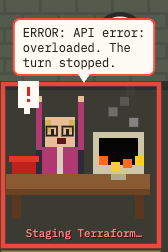
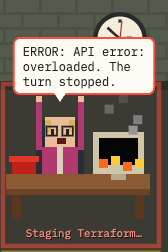
Sort the Dock by last interaction, fix sleep states, and point bubbles at heads
- Dock: the desk you prompted or jumped to last moves to the top, and
  desks glide to their new places. Other views keep the stable order.
  The keyboard walk reads the desk order from the office itself.
- Sleep: a finished session you never looked at falls asleep after
  2 hours (live sessions only). The registry status "shell" now means
  Finished, like "idle". It means the turn ended, not asleep.
- Bubbles: the tail points at the person's head and the bubble sits
  lower. Desks with a speech bubble drop the small "!" and "?" icons.
  The README images show the new bubbles.

Changed region(s): [[0.0, 0.0556, 0.9821, 1.0], [0.5952, 0.6111, 0.8631, 0.6944], [0.744, 0.4444, 0.8631, 0.5556]]

diff --git a/web/office.js b/web/office.js
@@ -161,8 +161,9 @@ function deskSlots(list, cols, w, top) {
 
 // Desk order is stable: first seen, first seated. An agent with a seat number (the demo's)
 // takes its place in seat order instead, so the demo office looks the same every time.
+// byRecent (the cmux Dock): your latest interaction sits at the top; ties keep the stable order.
 const seatOrder = [];
-function seated(list) {
+function seated(list, byRecent = false) {
   const byId = new Map(list.map((a) => [a.id, a]));
   for (const a of list) {
     if (seatOrder.includes(a.id)) continue;
@@ -170,7 +171,8 @@ function seated(list) {
     if (before < 0) seatOrder.push(a.id); else seatOrder.splice(before, 0, a.id);
   }
   for (let i = seatOrder.length - 1; i >= 0; i--) if (!byId.has(seatOrder[i])) seatOrder.splice(i, 1);
-  return seatOrder.map((id) => byId.get(id));
+  const stable = seatOrder.map((id) => byId.get(id));
+  return byRecent ? stable.sort((a, b) => (b.touchedAt ?? 0) - (a.touchedAt ?? 0)) : stable;
 }
 
 // Lays out the wall props left to right in logical pixels, for any office width.
@@ -244,7 +246,8 @@ function drawRoom(c, w, h, t, wall) {
 }
 
 // rowWidth > 0 means a one-column office: a colored divider under each desk replaces the outline.
-function drawDesk(c, s, t, rowWidth = 0) {
+// glyphs: draw the small "!" and "?" bubbles. Only the small map needs them; elsewhere the speech bubble says it.
+function drawDesk(c, s, t, rowWidth = 0, glyphs = true) {
   const { a, x, y } = s;
   const tier = a.tier;
   const pulse = 0.35 + 0.35 * Math.sin(t * 6);
@@ -292,10 +295,10 @@ function drawDesk(c, s, t, rowWidth = 0) {
     for (let i = 0; i < 4; i++) px(c, mx + 2 + i * 4, my + 10 - (Math.floor(t * 12 + i) % 3), 3, 3, i % 2 ? "#ffcc33" : "#ff6a1a");
   }
   // bubbles
-  if (a.state === "permission") bubble(c, x + 6, y - 9, "!", "#d22");
-  if (a.state === "question") bubble(c, x + 6, y - 9, "?", "#2a62d4");
-  if (a.state === "waiting") bubble(c, x + 4, y - 9, "!?", "#d22");
-  if (a.state === "error") bubble(c, x + 6, y - 9, "!", "#d22");
+  if (glyphs && a.state === "permission") bubble(c, x + 6, y - 9, "!", "#d22");
+  if (glyphs && a.state === "question") bubble(c, x + 6, y - 9, "?", "#2a62d4");
+  if (glyphs && a.state === "waiting") bubble(c, x + 4, y - 9, "!?", "#d22");
+  if (glyphs && a.state === "error") bubble(c, x + 6, y - 9, "!", "#d22");
   // asleep: an empty chair with z's drifting up from it
   if (a.state === "idle") for (let i = 0; i < 2; i++) { const p = (t * 0.5 + i * 0.5) % 1; glyph(c, "z", x + 17 + p * 6, y + 8 - p * 14, `rgba(220,220,255,${1 - p})`); }
   // helpers (subagents): one badge above the desk, a tiny figure plus a count drawn in the label pass
@@ -340,9 +343,11 @@ function speech(c, s, scale, lw, alpha = 1) {
   const lines = wrap(c, `${label ? label.toUpperCase() + ": " : ""}${a.detail}`, CELL_W * scale - 30, 4);
   const w = Math.max(...lines.map((l) => c.measureText(l).width)) + 18;
   const h = lines.length * 15 + 11;
-  const tx = (s.x + CELL_W / 2) * scale;
-  const x = tx - w / 2;
-  const y = Math.max(2, (s.y - 11) * scale - h); // keeps the top row's bubbles on the canvas
+  // The box stays centred on its desk, so it never runs into the next one. The tail points
+  // down at the person's head (drawPerson puts it at x + 20), ending just above the hair.
+  const x = (s.x + CELL_W / 2) * scale - w / 2;
+  const tx = Math.min(Math.max((s.x + 20) * scale, x + 12), x + w - 12);
+  const y = Math.max(2, (s.y - 2) * scale - 8 - h); // keeps the top row's bubbles on the canvas
   c.fillStyle = urgent ? "#fdfbf3" : "#0d1a10";
   c.strokeStyle = urgent ? "#ff4d3d" : "#7dff8a";
   c.lineWidth = 2;
@@ -392,13 +397,33 @@ function mountOffice(host, scale) {
   let lw = 0;
   let hoverId;
   let wall;
+  let targets = [];     // where each desk belongs this frame
+  let lastMs;
+  const shown = new Map(); // id -> where the desk is drawn now, gliding toward its target
+
+  // Moves each desk part of the way to its target every frame (ease-out, about a third of a
+  // second end to end). A new desk appears in place; a desk that left is forgotten.
+  function glide(list, dt) {
+    const k = 1 - Math.exp(-dt * 12);
+    const ids = new Set(list.map((s) => s.a.id));
+    for (const id of shown.keys()) if (!ids.has(id)) shown.delete(id);
+    return list.map((s) => {
+      const p = shown.get(s.a.id);
+      if (!p) { shown.set(s.a.id, { x: s.x, y: s.y }); return s; }
+      p.x += (s.x - p.x) * k;
+      p.y += (s.y - p.y) * k;
+      if (Math.abs(s.x - p.x) < 0.3 && Math.abs(s.y - p.y) < 0.3) { p.x = s.x; p.y = s.y; }
+      return { ...s, x: Math.round(p.x), y: Math.round(p.y) };
+    });
+  }
   function frame(ms) {
     if (!alive) return;
     const t = ms / 1000;
     const wpx = host.clientWidth || 600;
     lw = Math.floor(wpx / scale);
     const cols = Math.max(1, Math.floor((lw - PAD * 2) / CELL_W));
-    const list = seated(agents);
+    // The cmux Dock: inside cmux and narrow.
+    const list = seated(agents, IN_CMUX && wpx < NARROW_PX);
     const rows = Math.max(2, Math.ceil(list.length / cols));
     const top = wpx < NARROW_PX ? 8 : WALL_H;
     const lh = top + 8 + rows * CELL_H;
@@ -407,9 +432,13 @@ function mountOffice(host, scale) {
     c.imageSmoothingEnabled = false;
     wall = top === WALL_H ? wallLayout(c, lw, scale) : null;
     drawRoom(c, lw, lh, t, wall);
-    slots = deskSlots(list, cols, lw, top);
+    targets = deskSlots(list, cols, lw, top);
+    slots = glide(targets, (ms - (lastMs ?? ms)) / 1000);
+    lastMs = ms;
     const single = cols === 1;
-    slots.forEach((s) => drawDesk(c, s, t, single ? lw : 0));
+    // Desks still gliding draw last, so they slide over the desks they pass.
+    const moving = (s, i) => (s.x !== targets[i].x || s.y !== targets[i].y ? 1 : 0);
+    slots.map((s, i) => [s, moving(s, i)]).sort((p, q) => p[1] - q[1]).forEach(([s]) => drawDesk(c, s, t, single ? lw : 0, scale < 2));
     // name labels in real pixels so they stay sharp
     c.setTransform(1, 0, 0, 1, 0, 0);
     c.font = `${Math.max(8, scale * 3.6)}px "IBM Plex Mono", monospace`;
@@ -454,13 +483,16 @@ function mountOffice(host, scale) {
   return {
     destroy() { alive = false; },
     // Where a desk sits in the viewport, in CSS pixels, so the page can scroll it into view.
+    // Where a desk is heading (not where it is mid-glide), so scrolling aims at its final place.
     deskBox(id) {
-      const s = slots.find((x) => x.a.id === id);
+      const s = targets.find((x) => x.a.id === id);
       if (!s) return undefined;
       const r = canvas.getBoundingClientRect();
       const k = (r.width / canvas.width) * scale;
-      return { top: r.top + (s.y - 10) * k, bottom: r.top + (s.y + 47) * k, firstRow: s.y === slots[0].y };
+      return { top: r.top + (s.y - 10) * k, bottom: r.top + (s.y + 47) * k, firstRow: s.y === targets[0].y };
     },
+    // The desks in the order the office shows them, for the keyboard walk.
+    deskIds: () => targets.filter((s) => s.a.state !== "ended").map((s) => s.a.id),
   };
 }
 
@@ -635,7 +667,7 @@ new MutationObserver(decorateList).observe(document.body, { childList: true, sub
 // ↑ walks back and stops at the first desk. Enter jumps to the picked session, Esc clears.
 // In the cmux Dock, ⌘⇧E gives this page keyboard focus.
 function pickables() {
-  const desks = seated(agents).filter((a) => a.state !== "ended").map((a) => ({ kind: "desk", id: a.id }));
+  const desks = office.deskIds().map((id) => ({ kind: "desk", id }));
   const rows = [...document.querySelectorAll("tr.row[data-id]")].map((r) => ({ kind: "row", id: r.dataset.id }));
   return [...desks, ...rows];
 }

diff --git a/src/store.ts b/src/store.ts
@@ -9,8 +9,10 @@ import { describeTool, firstLine, short, type Transcript } from "./transcript.ts
 import type { RegistryEntry } from "./registry.ts";
 import type { PaneInfo } from "./cmux.ts";
 
-// A Finished agent stays in Review until you have seen it. It falls asleep this long after you saw it.
+// A Finished session falls asleep 30 minutes after you've seen it,
 export const ASLEEP_AFTER_MS = 30 * 60_000;
+// or 2 hours after it finished if you never looked. Live sessions only: the demo's Finished desk stays put.
+export const UNSEEN_ASLEEP_AFTER_MS = 2 * 60 * 60_000;
 // A hooked session missing from the registry for this long is treated as gone.
 const HOOK_GRACE_MS = 10_000;
 
@@ -54,6 +56,7 @@ const tilde = (p: string) => p.replace(homedir(), "~");
 export function createStore(clock: () => number = Date.now) {
   const sessions = new Map<string, Session>();
   const seen = new Map<string, { since: number; at: number }>();
+  const touched = new Map<string, number>(); // id -> when you last prompted it or jumped to it
   let hooksSeen = false;
 
   function session(id: string, cwd: string): Session {
@@ -87,7 +90,7 @@ export function createStore(clock: () => number = Date.now) {
     const tool = () => describeTool(e.tool_name ?? "", e.tool_input ?? {}, e.cwd ?? s.cwdAbs);
     switch (e.hook_event_name) {
       case "SessionStart": set(s, "idle", "Ready for a prompt"); break;
-      case "UserPromptSubmit": set(s, "working", "Thinking"); break;
+      case "UserPromptSubmit": set(s, "working", "Thinking"); touched.set(s.id, clock()); break;
       case "PreToolUse": set(s, e.tool_name === "AskUserQuestion" ? "question" : "working", tool()); break;
       case "PostToolUse": set(s, "working", tool()); break;
       case "PermissionRequest": set(s, "permission", `${tool()}?`); break;
@@ -112,8 +115,9 @@ export function createStore(clock: () => number = Date.now) {
       const what = describeTool(tr.tool.name, tr.tool.input, reg.cwd);
       set(s, ask ? "question" : "permission", ask ? what : `${what}?`, at);
     } else if (reg.status === "waiting") set(s, "waiting", "Waiting on you", at);
-    else if (reg.status === "idle") set(s, "review", firstLine(tr.lastText) || "Finished a turn", at);
-    else set(s, "idle", reg.status === "shell" ? "At the shell prompt" : firstLine(tr.lastText), at);
+    // "idle" and "shell" both mean the turn ended and the prompt is waiting for you.
+    else if (reg.status === "idle" || reg.status === "shell") set(s, "review", firstLine(tr.lastText) || "Finished a turn", at);
+    else set(s, "idle", firstLine(tr.lastText), at);
   }
 
   // Claude Code names a session once, early on. A cmux workspace someone renamed (its title
@@ -128,6 +132,7 @@ export function createStore(clock: () => number = Date.now) {
       s.project = basename(reg.cwd);
       const renamed = pane && pane.workspaceTitle && pane.workspaceTitle !== pane.surfaceTitle ? pane : undefined;
       s.title = renamed?.workspaceTitle || tr.title || reg.name || s.project;
+      s.touchedAt = tr.promptAt;
       s.about = renamed?.description || undefined;
       s.target = pane;
       if (!s.hooked) infer(s, reg, tr);
@@ -138,10 +143,14 @@ export function createStore(clock: () => number = Date.now) {
   function decorate(a: Agent): ViewAgent {
     const mark = seen.get(a.id);
     const seenIt = a.state === "review" && mark?.since === a.since;
-    const state: State = seenIt && clock() - mark!.at >= ASLEEP_AFTER_MS ? "idle" : a.state;
+    const asleep = seenIt
+      ? clock() - mark!.at >= ASLEEP_AFTER_MS
+      : a.state === "review" && a.source === "live" && clock() - a.since >= UNSEEN_ASLEEP_AFTER_MS;
+    const state: State = asleep ? "idle" : a.state;
     const tier: Tier = URGENT.has(state) ? "urgent" : state === "review" && !seenIt ? "review" : "quiet";
     const label = state === "review" && seenIt ? "Seen" : LABEL[state];
-    return { ...a, state, tier, label };
+    const touchedAt = Math.max(touched.get(a.id) ?? 0, a.touchedAt ?? 0) || undefined;
+    return { ...a, state, tier, label, touchedAt };
   }
 
   // Everyone, urgent first, then longest waiting first.
@@ -152,7 +161,7 @@ export function createStore(clock: () => number = Date.now) {
       helpers: [...helperTypes].map(([id, label]) => ({ id, label })),
     }));
     const all = [...demo, ...live];
-    for (const id of seen.keys()) if (!all.some((a) => a.id === id)) seen.delete(id);
+    for (const marks of [seen, touched]) for (const id of marks.keys()) if (!all.some((a) => a.id === id)) marks.delete(id);
     return all.map(decorate).sort((x, y) => TIER_ORDER[x.tier] - TIER_ORDER[y.tier] || x.since - y.since);
   }
 
@@ -161,12 +170,15 @@ export function createStore(clock: () => number = Date.now) {
     if (a.state === "review") seen.set(a.id, { since: a.since, at: clock() });
   }
 
+  // You jumped to it: it counts as your latest interaction.
+  const touch = (id: string) => { touched.set(id, clock()); };
+
   const where = (id: string) => {
     const s = sessions.get(id);
     return s && { pid: s.pid, pane: s.pane, target: s.target };
   };
 
-  return { applyHook, applyRegistry, view, markSeen, where, hooksSeen: () => hooksSeen };
+  return { applyHook, applyRegistry, view, markSeen, touch, where, hooksSeen: () => hooksSeen };
 }
 
 export type Store = ReturnType<typeof createStore>;

diff --git a/src/store.test.ts b/src/store.test.ts
@@ -1,6 +1,6 @@
 import { test } from "node:test";
 import assert from "node:assert/strict";
-import { ASLEEP_AFTER_MS, createStore, type HookEvent } from "./store.ts";
+import { ASLEEP_AFTER_MS, UNSEEN_ASLEEP_AFTER_MS, createStore, type HookEvent } from "./store.ts";
 import type { RegistryEntry } from "./registry.ts";
 
 function setup() {
@@ -42,7 +42,7 @@ test("a finished turn waits in Review until seen, then sleeps 30 minutes after t
   assert.equal(one()?.tier, "review");
   assert.equal(one()?.detail, "Done");
   tick(2 * ASLEEP_AFTER_MS);
-  assert.equal(one()?.tier, "review", "unseen work never falls asleep");
+  assert.equal(one()?.tier, "review", "unseen work waits longer than seen work");
   store.markSeen(one()!);
   assert.equal(one()?.tier, "quiet");
   assert.equal(one()?.label, "Seen");
@@ -155,4 +155,53 @@ test("a workspace that only mirrors the terminal title doesn't override the AI t
   store.applyRegistry([{ reg: reg("idle"), tr: { title: "Retry backoff", lastText: "" }, pane: pane("zsh", "zsh") }]);
   assert.equal(one()?.title, "Retry backoff");
   assert.equal(one()?.about, undefined);
+});
+
+test("a finished turn nobody looks at falls asleep after 2 hours", () => {
+  const { hook, one, tick } = setup();
+  hook("Stop");
+  tick(UNSEEN_ASLEEP_AFTER_MS - 1);
+  assert.equal(one()?.tier, "review");
+  tick(1);
+  assert.equal(one()?.state, "idle");
+  assert.equal(one()?.label, "Asleep");
+  assert.equal(one()?.tier, "quiet");
+});
+
+test("demo agents never doze off on their own", () => {
+  let now = 0;
+  const store = createStore(() => now);
+  const demo = { id: "d", source: "demo" as const, title: "Demo", project: "demo", cwd: "~", state: "review" as const, since: 0, detail: "", helpers: [] };
+  now = 10 * UNSEEN_ASLEEP_AFTER_MS;
+  assert.equal(store.view([demo])[0].state, "review");
+});
+
+test("a registry status of shell means the turn finished, like idle", () => {
+  const { store, one } = setup();
+  store.applyRegistry([{ reg: reg("shell"), tr: { title: "", lastText: "Pushed the fix." } }]);
+  assert.equal(one()?.state, "review");
+  assert.equal(one()?.detail, "Pushed the fix.");
+});
+
+test("a prompt, a jump, or a prompt in the transcript sets the last interaction", () => {
+  const { store, hook, one, tick } = setup();
+  store.applyRegistry([{ reg: reg("idle"), tr: { title: "", lastText: "", promptAt: 500 } }]);
+  assert.equal(one()?.touchedAt, 500);
+  tick(1000);
+  hook("UserPromptSubmit");
+  const prompted = one()!.touchedAt!;
+  assert.ok(prompted > 500);
+  tick(1000);
+  store.touch("s1");
+  assert.equal(one()?.touchedAt, prompted + 1000);
+});
+
+test("demo agents can be touched too", () => {
+  let now = 0;
+  const store = createStore(() => now);
+  const demo = { id: "d", source: "demo" as const, title: "Demo", project: "demo", cwd: "~", state: "working" as const, since: 0, detail: "", helpers: [] };
+  assert.equal(store.view([demo])[0].touchedAt, undefined);
+  now = 42;
+  store.touch("d");
+  assert.equal(store.view([demo])[0].touchedAt, 42);
 });

diff --git a/src/transcript.ts b/src/transcript.ts
@@ -9,7 +9,8 @@ const PROJECTS_DIR = join(homedir(), ".claude", "projects");
 const TAIL_BYTES = 512 * 1024;
 
 export type ToolUse = { id: string; name: string; input: Record<string, any>; pending: boolean };
-export type Transcript = { title: string; tool?: ToolUse; lastText: string };
+// promptAt: when you last typed a prompt (a "user" record with origin.kind "human").
+export type Transcript = { title: string; tool?: ToolUse; lastText: string; promptAt?: number };
 
 const cache = new Map<string, Transcript & { mtimeMs: number }>();
 
@@ -39,13 +40,14 @@ export function parseTail(text: string): Transcript {
   const out: Transcript = { title: "", lastText: "" };
   const answered = new Set<string>();
   for (const line of text.split("\n").reverse()) {
-    if (out.title && out.tool && out.lastText) break;
+    if (out.title && out.tool && out.lastText && out.promptAt) break;
     if (!line.startsWith("{")) continue;
     let rec;
     try { rec = JSON.parse(line); } catch { continue; } // partial first line
     if (!out.title && rec.type === "ai-title") out.title = rec.aiTitle ?? "";
     const content = Array.isArray(rec.message?.content) ? rec.message.content : [];
     if (rec.type === "user") for (const c of content) if (c.type === "tool_result") answered.add(c.tool_use_id);
+    if (!out.promptAt && rec.type === "user" && rec.origin?.kind === "human" && rec.timestamp) out.promptAt = Date.parse(rec.timestamp) || undefined;
     if (rec.type === "assistant") {
       const use = [...content].reverse().find((c) => c.type === "tool_use");
       if (!out.tool && use) out.tool = { id: use.id, name: use.name, input: use.input ?? {}, pending: !answered.has(use.id) };

diff --git a/src/transcript.test.ts b/src/transcript.test.ts
@@ -38,3 +38,11 @@ test("firstLine takes the first real line without markdown", () => {
   assert.equal(firstLine("\n## **Done.** All `14` tests pass\nmore"), "Done. All 14 tests pass");
   assert.equal(firstLine(undefined), "");
 });
+
+test("the newest human prompt sets promptAt; tool results don't", () => {
+  const tail = [
+    line({ type: "user", origin: { kind: "human" }, timestamp: "2026-10-22T07:30:45.941Z", message: { content: "Fix the grid" } }),
+    line({ type: "user", timestamp: "2026-10-22T07:31:00.000Z", message: { content: [{ type: "tool_result", tool_use_id: "t1" }] } }),
+  ].join("\n");
+  assert.equal(parseTail(tail).promptAt, Date.parse("2026-10-22T07:30:45.941Z"));
+});

diff --git a/src/server.ts b/src/server.ts
@@ -92,6 +92,7 @@ async function jump(v: View, id: string, fromCmux = false): Promise<string> {
   const a = v.agents().find((x) => x.id === id);
   if (!a) return "That agent has gone home.";
   v.store.markSeen(a);
+  v.store.touch(a.id);
   if (a.source === "demo") return `${a.title} is a demo agent, so there's no pane to jump to.`;
   const target = store.where(id)?.target;
   if (!target) return `Couldn't find a cmux pane for ${a.title}. Is it running in cmux?`;

diff --git a/src/types.ts b/src/types.ts
@@ -20,6 +20,8 @@ export type Agent = {
   about?: string;
   // A fixed desk position. Demo agents use it so the office looks the same every time.
   seat?: number;
+  // When you last interacted with it: sent it a prompt or jumped to it. The Dock sorts by this.
+  touchedAt?: number;
 };
 
 // What the page gets: the agent plus what the server worked out about attention.

diff --git a/src/registry.ts b/src/registry.ts
@@ -12,7 +12,7 @@ export type RegistryEntry = {
   sessionId: string;
   cwd: string;
   name: string;
-  status: string; // seen so far: busy, idle, waiting, shell
+  status: string; // seen so far: busy, waiting, and idle or shell (both: the turn ended, the prompt waits)
   statusUpdatedAt: number;
 };
 

diff --git a/README.md b/README.md
@@ -12,7 +12,7 @@ A fun overview of all your Claude Code agents in cmux, drawn as a pixel-art IT b
 | ![Needs permission](docs/states/permission.png) | **Needs permission.** The red phone rings and the bubble says what it wants to run. Needs you. |
 | ![Asked a question](docs/states/question.png) | **Asked a question.** Hand up, with the question in the bubble. Needs you. |
 | ![Error](docs/states/error.png) | **Error.** An API error stopped the turn, and the monitor is on fire. Needs you. |
-| ![Finished](docs/states/finished.png) | **Finished.** Leaning back with tea until you look at the result. |
+| ![Finished](docs/states/finished.png) | **Finished.** Leaning back with tea until you look at the result. Falls asleep 30 minutes after you look, or after 2 hours if you never do. |
 | ![Asleep](docs/states/asleep.png) | **Asleep.** Nothing new for a while. |
 
 ## Install
